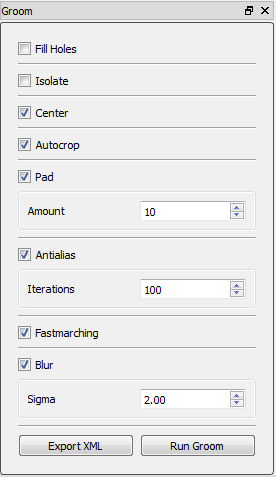
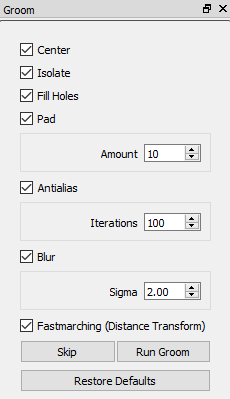
optimize option ranges, labels. Update readme and its images.

diff --git a/README.md b/README.md
@@ -54,7 +54,7 @@ Building
   - <code>BUILD_TESTING=FALSE</code>
   - <code>ITKV3_COMPATIBILTY=TRUE</code>
 - Build ITK:
-  - Make command: <code>make -j4</code><br/>
+  - Make command: <code>make -j4 all</code><br/>
 
 ##Building VTK
 
@@ -66,7 +66,7 @@ Building
   - <code>BUILD_EXAMPLES=FALSE</code>
   - <code>BUILD_TESTING=FALSE</code><br/>
 - Build VTK
-  - Make command: <code>make -j4</code><br/>
+  - Make command: <code>make -j4 all</code><br/>
 
 ##Building ShapeWorksStudio<br/>
 
@@ -125,52 +125,68 @@ is loaded, it may still display when it is deleted. It will be replaced by the n
 align="right" hspace="20">
 Once more than 1 image is loaded, the preprocessing step, "groom" is next. You can select several options for grooming.
 <br/><br/>
-*Fill Holes* This option fills any existing holes in the segmentations.
+*Center* This option attempts to allign the segmentations to a common center if they aren't the same sizes.
 <br/><br/>
 *Isolate* This option isolates the foreground.
 <br/><br/>
-*Center* This option attempts to allign the segmentations to a common center if they aren't the same sizes.
-<br/><br/>
-*Autocrop* Use this option to find the largest bounding box containing all input shapes, and crop all input volumes
-accordingly.
+*Fill Holes* This option fills any existing holes in the segmentations.
 <br/><br/>
 *Pad* This option adds a padding around the shapes. This can help when a larger number of correspondance points are needed.
 You can select what amount is appropriate for the optimization step.
 <br/><br/>
 *Antialias* This option antialiases the binary segmentation. You can select the number of antialias iterations.
 <br/><br/>
-*Fastmarching* This option computes a distance transform of the surface using the fastmarching method.
-<br/><br/>
 *Blur* This option blurs the distance transform to get rid of high-frequency artifacts. You can choose an appropriate sigma
 for the blurring.
+<br/><br/>
+*Fastmarching* This option computes a distance transform of the surface using the fastmarching method.
 <br/><br/>
 *Run Groom* Click this when you are ready for grooming. This step takes some time. Output is put into a 
 ShapeWorksStudioTools.log file next to the executable. A progress indicator shows the tool is working.
 <br/><br/>
-
+*Skip* Click this if you believe your data to already be pre-processed to your liking.
+<br/><br/>
+*Restore Defaults* Click this to restore all values to their program defaults.
+<br/><br/>
 <h2>Optimize</h2>
+<h3>Optimize</h3>
 <img src="https://raw.githubusercontent.com/SCIInstitute/ShapeWorksStudio/master/src/Application/Resources/Images/Optimize.png"
 align="right" hspace="20">
 Once the grooming step is complete, you can run the optimize step. The Optimize table has 5 parameters per split.
 <br/><br/>
-*Number of splits* Specifies the number of particles (2 ^ splits) to be used to represent each shape in the ensemble.
+*Number of Particles* Specifies the number of particles to be used to represent each shape in the ensemble.
+Keep in mind that the actual particle count will be a power of "2" >= the provided number.
+<br/><br/>
+*Relative Weighting* The relative weighting of terms in the two-term cost function used for the optimization.  
 <br/><br/>
 *Starting/Ending Regularization* These options determines the regularizations on the covariance matrix for the shape-space 
 entropy estimation.
 <br/><br/>
-*Iterations per split* Specifies the number of iterations to run between successive particle splits during an 
+*Iterations per Level* Specifies the number of iterations to run between successive particle splits during an 
 initialization phase. This allows the particle system at a given granularity to converge to a stable state 
 before more particles are added.
 <br/><br/>
-*Tolerance* This is the error tolerance per split, which sets the threshold for optimization to be considered converged.
-<br/><br/>
 *Decay Span* The parameters RegStart, RegEnd, and DecaySpan define an "annealing" type optimization,
 where the minimum variance starts at RegStart and exponentially decreases over DecaySpan to the      
-RegEnd value.  If the DecaySpan is set to 0, then only a constant is used as the Minimum Variance 
-parameter and is held fixed during the optimization.
+RegEnd value.  This is usually the same number as iterations.
 <br/><br/>
 *Run Optimize* Click this when you are ready for optimizing. This step takes a while.
 A progress indicator shows the tool is working.
+<br/><br/>
+<h3>Reconstruction</h3>
+*Max Angle* This is the greatest angle between particle normals (from respective samples)
+permitted to label the particle "good", or useful for reconstruction.
+<br/><br/>
+*Mesh Decimation* The "PreView" library code can decimate the number of triangles to the value 
+set here. The default is "0.30" or 30 percent.
+<br/><br/>
+*# Clusters* To help speed up reconstruction, you can define how many samples/Clusters
+are used to warp data into mean space. "0" indicates to use all of the samples.
+<br/><br/>
+*Run Reconstruction* Click this to run the reconstruction step. If it fails, the VTK
+triangles are used instead. You can re-run with different Optimizations as needed.
+<br/><br/>
+*Restore Defaults* Click this to restore all values to their program defaults.
 <br/><br/>
 
 <h2>Analysis</h2>
@@ -224,14 +240,7 @@ shortcut option.
 <br/><br/>
 *Glyph options* Click the down arrow to resize the glyphs or select the quality of the glyphs.
 <br/><br/>
-*Show isosurface* Toggle whether to view the surface representing the shape. Click the down arrow for more options. 
-You can alter the number of neighbors, point spacing, and mesh smoothing for isosurface reconstruction.
-<br/><br/>
-*Neighborhood Size* The neighborhood size (max vertex valence) used for isosurface reconstruction.
-<br/><br/>
-*Spacing* The spacing used for isosurface reconstruction.
-<br/><br/>
-*Smoothing* The smoothing amount for isosurface reconstruction.
+*Show isosurface* Toggle whether to view the surface representing the shape. 
 <br/><br/>
 *View mode drop-down* This drop-down gives 3 options for view mode. Original is the binary segmentation. You must
 have loaded images for this option to be available. Groomed is for the distance transform view. You must  
@@ -273,7 +282,9 @@ between application runs for convenience.
 * Open and save projects
 * Set the data directory for where generated images will be written when a project is saved.
 * Load new images
-* Export a mesh reconstructed for a sample, the mean, or a variance from the mean.
+* Export a mesh reconstructed for samples, the mean, or a variance from the mean.
+* Export the Eigen values or Eigen vectors from the sample statistics.
+* Export the Particles per shape to text files.
 * Export an XML parameter file to run a command line too on more images
 * Open recent projects
 * Quit the application.
